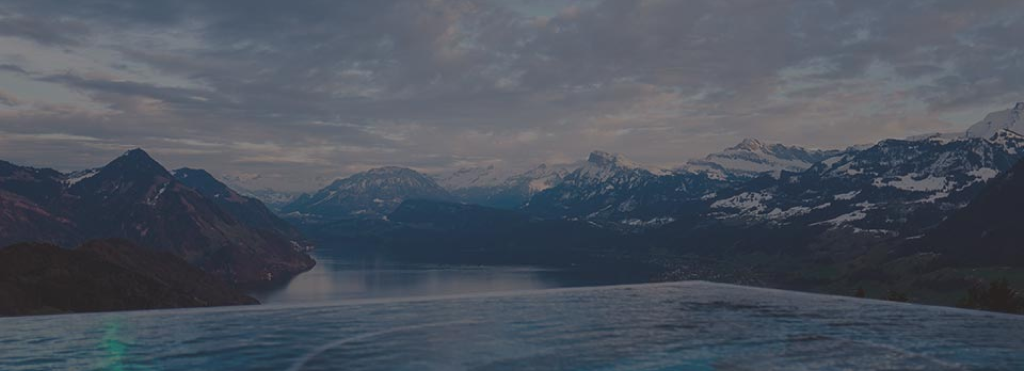
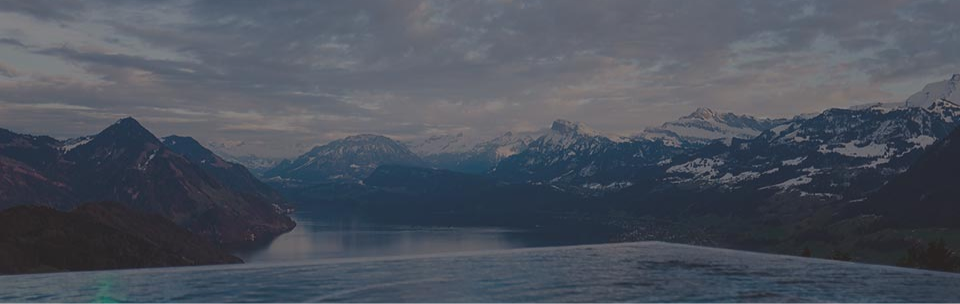
maj19/10

diff --git a/Legendarycss/index.html b/Legendarycss/index.html
@@ -13,7 +13,12 @@
 
 <body>
     <main>
-        <img src="image/header 1.png" alt="header" class="image1">
+        <div class="contenant">
+            <img src="image/header 1.png" alt="header" class="image1">
+            <img  src="image/LogoTop.png" alt="LogoTop" class="LogoTop">
+            <p class="Legendary">BIENVENUE</p>
+        </div>
+        <div class="Intro">
         <h1>INTRO</h1>
         <p>Le cinéma est un art du spectacle. En français, il est couramment désigné comme le « <br>
             septième art », d'après l'expression du critique Ricciotto Canudo dans les années 19201. <br>
@@ -21,7 +26,10 @@
             d’un film, c’est-à-dire d’un récit (fictionnel ou documentaire), véhiculé par un support <br>
             (pellicule souple, bande magnétique, contenant numérique) qui est enregistré puis lu par <br>
             un mécanisme continu ou intermittent qui crée l’illusion d’images en mouvement, ou par <br>
-            un enregistrement et une lecture continus de données informatiques.</p>
+            un enregistrement et une lecture continus de données informatiques.
+        </p>
+        </div>
+            <div class="Avengers">
         <h2>AVENGERS : INFINITY WAR</h2>
         <p class="textAve">Alors que les Avengers et leurs alliés ont continué de protéger le monde face à des <br>
             menaces bien trop grandes pour être combattues par un héros seul, un nouveau danger <br>
@@ -30,11 +38,25 @@
             et de les utiliser afin d'imposer sa volonté sur toute la réalité. Tous les combats que les <br>
             Avengers ont menés culminent dans cette bataille.
         </p>
+        <img src="image/Avengers.png" alt="Avengers" class="Avengers">
+        <p class="AvengerCredit">Première sortie : 23 avril 2018 ( los engeles) <br>
+            Réalisateurs : Anthony russo, Joe Russo
+        </p>
+        </div>
+        <div class="Astar">
         <h3>A STAR IS BORN</h3>
         <p class="textAstar">Star de country un peu oubliée, Jackson Maine découvre Ally, une jeune chanteuse très <br>
             prometteuse. Tandis qu'ils tombent follement amoureux l'un de l'autre, Jack propulse <br>
             Ally sur le devant de la scène et fait d'elle une artiste adulée par le public. Bientôt <br>
-            éclipsé par le succès de la jeune femme, il vit de plus en plus de mal son propre déclin…</p>
+            éclipsé par le succès de la jeune femme, il vit de plus en plus de mal son propre déclin…
+        </p>
+        <img src="image/AStarIsBorn.png" alt="Astar" class="Astar">
+        <p class="AstarCredit">
+            Première sortie : 3octobre 2018 <br>
+            Réalisateur : Bradley Cooper
+        </p>
+        </div>
+        <div class="WomanAt">
         <h4>WOMAN AT WAR</h4>
         <p class="textWom">Halla, la cinquantaine, déclare la guerre à l’industrie locale de l’aluminium, qui défigure
             <br>
@@ -45,6 +67,19 @@
             Mais alors qu'elle prépare de nouveaux sabotages de lignes électriques, elle apprend q <br>
             u'une demande d'adoption déposée depuis longtemps a abouti et qu'elle va devenir <br>
             mère d'une jeune orpheline ukrainienne.</p>
+            <img src="image/WomanAtWar.png" alt="Woman" class="Woman">
+            <p class="WomanCredit">
+                Première sortie : 7 mars 2018 <br>
+                Réalisateur : Le mec connu là hein il a des yeux même
+            </p>
+            </div>
+            <div class="bot">
+                <img src="image/Logo1.png" alt="LogoBot" class="LogoBot">
+                <p class="CreditLegendary">
+                    LEGENDARY - <span> Un site comme plein d'autres </span> <br>
+                    Aucun droit réservés
+                </p>
+            </div>
     </main>
 
 

diff --git a/Legendarycss/style.css b/Legendarycss/style.css
@@ -1,27 +1,52 @@
 *{
     box-sizing: border-box;
+    margin: 0;
+    padding: 0;
 }
 body{
     background-color: #EFE784;
 }
 main{
-    background-color: #3E3838;
+    /* background-color: #3E3838; */
+    /* position: relative; */
     margin: 0 auto;
     width: 960px;
 }
-img.image1{
-    width: 960px;
+.contenant{
+    position: relative;
+    
 }
-h1{
+.LogoTop{
+    position: absolute;
+    top: 43px;
+    left: 350px;
+    display: block;
+    margin: 0 auto;
+}
+.Legendary{
+    position: absolute;
+    top: 150px;
+    left: 300px;
+    display: block;
+    margin: 0 auto;
+    text-align: center;
+    margin-left: 0px;
+    font-size: 40px;
+    letter-spacing: 20px;
+}
+ h1{
     color: #EFE784;
     border-top: solid 1px; color: #EFE784;
     border-bottom: solid 1px;color: #EFE784;
     margin-left: 45%;
     margin-right: 44%;
-}
+    margin-bottom: 25px;
+
+} 
 p{
     color: #EFE784;
-    text-align: center;
+    margin-left: 200px;
+    
 }
 p.textAve{
     color: #6CBCB3;
@@ -31,16 +56,89 @@ p.textAstar{
 }
 p.textWom{
     color: #fff;
-}
-h2{
+} 
+ h2{
     color: #6CBCB3 ;
-    text-align: center;
+    margin-left: 200px;
+    padding-top: 30px;
+    font-size: 30px;
+    margin-bottom: 25px;
+    
 }
 h3{
     color: #444C4A;
-    text-align: center;
+    margin-left: 200px;
+    padding-top: 20px; 
+     font-size: 30px;
+     margin-bottom: 25px;
 }
 h4{
     color: #fff;
-    text-align: center;
+    margin-left: 200px;
+    padding-top: 20px;
+     font-size: 30px;
+     margin-bottom: 25px;
+} 
+div.Avengers{ 
+    background-color: #fff;
+    padding-bottom: 10px;
+}
+div.Astar{
+    background-color: #6CBCB3;
+    padding-top: 10px;
+}
+div.bot{
+    background-color: black;
+    padding-bottom: 20px; 
+}
+p.AvengerCredit{
+    color: #6CBCB3 ;
+    margin-top: 10px;
+    padding-bottom: 15px;
+ }
+p.AstarCredit{
+    color: #444C4A;
+    margin-top: 10px;
+    padding-bottom: 15px;
+} 
+p.WomanCredit{
+    color: #fff;
+    margin-top: 10px;
+    padding-bottom: 15px;
+} 
+p.CreditLegendary{
+    color: #fff;
+    margin-left: 50px;
+}
+span{
+    color: #EFE784;
+}
+img.Astar{
+    margin-left: 200px;
+}
+img.Avengers{
+    margin-left: 200px;
+}
+img.Woman{
+    margin-left: 200px;
+} 
+ img.LogoBot{
+    margin-left: 50px;
+    margin-top: 40px;
+
+}
+
+.Intro{
+    background-color: #3E3838;
+    padding-top: 40px;
+    padding-bottom: 40px;
+    
+    
+}
+.WomanAt{
+    background-color: #3E3838;
+    
+}
+.image1{
+    margin-bottom: -10px;
 }
